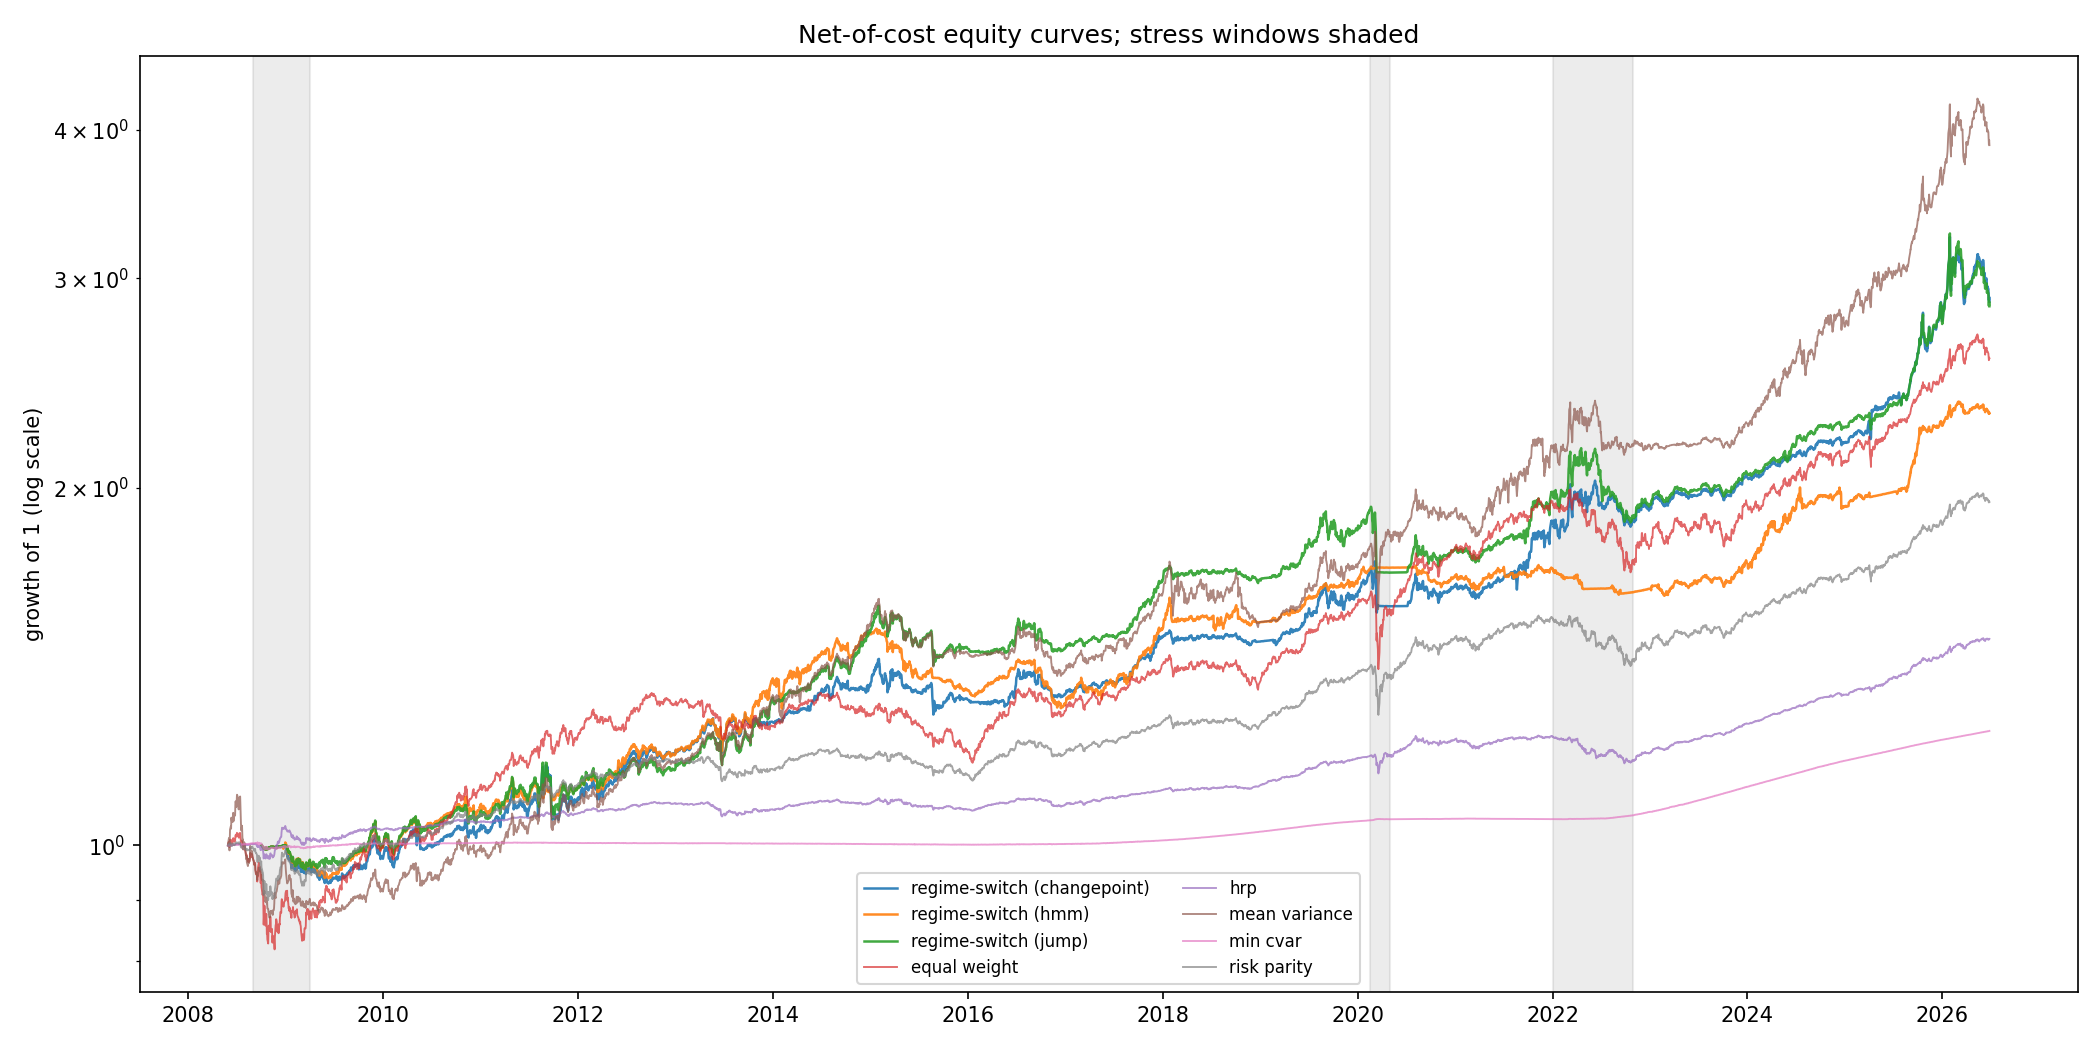
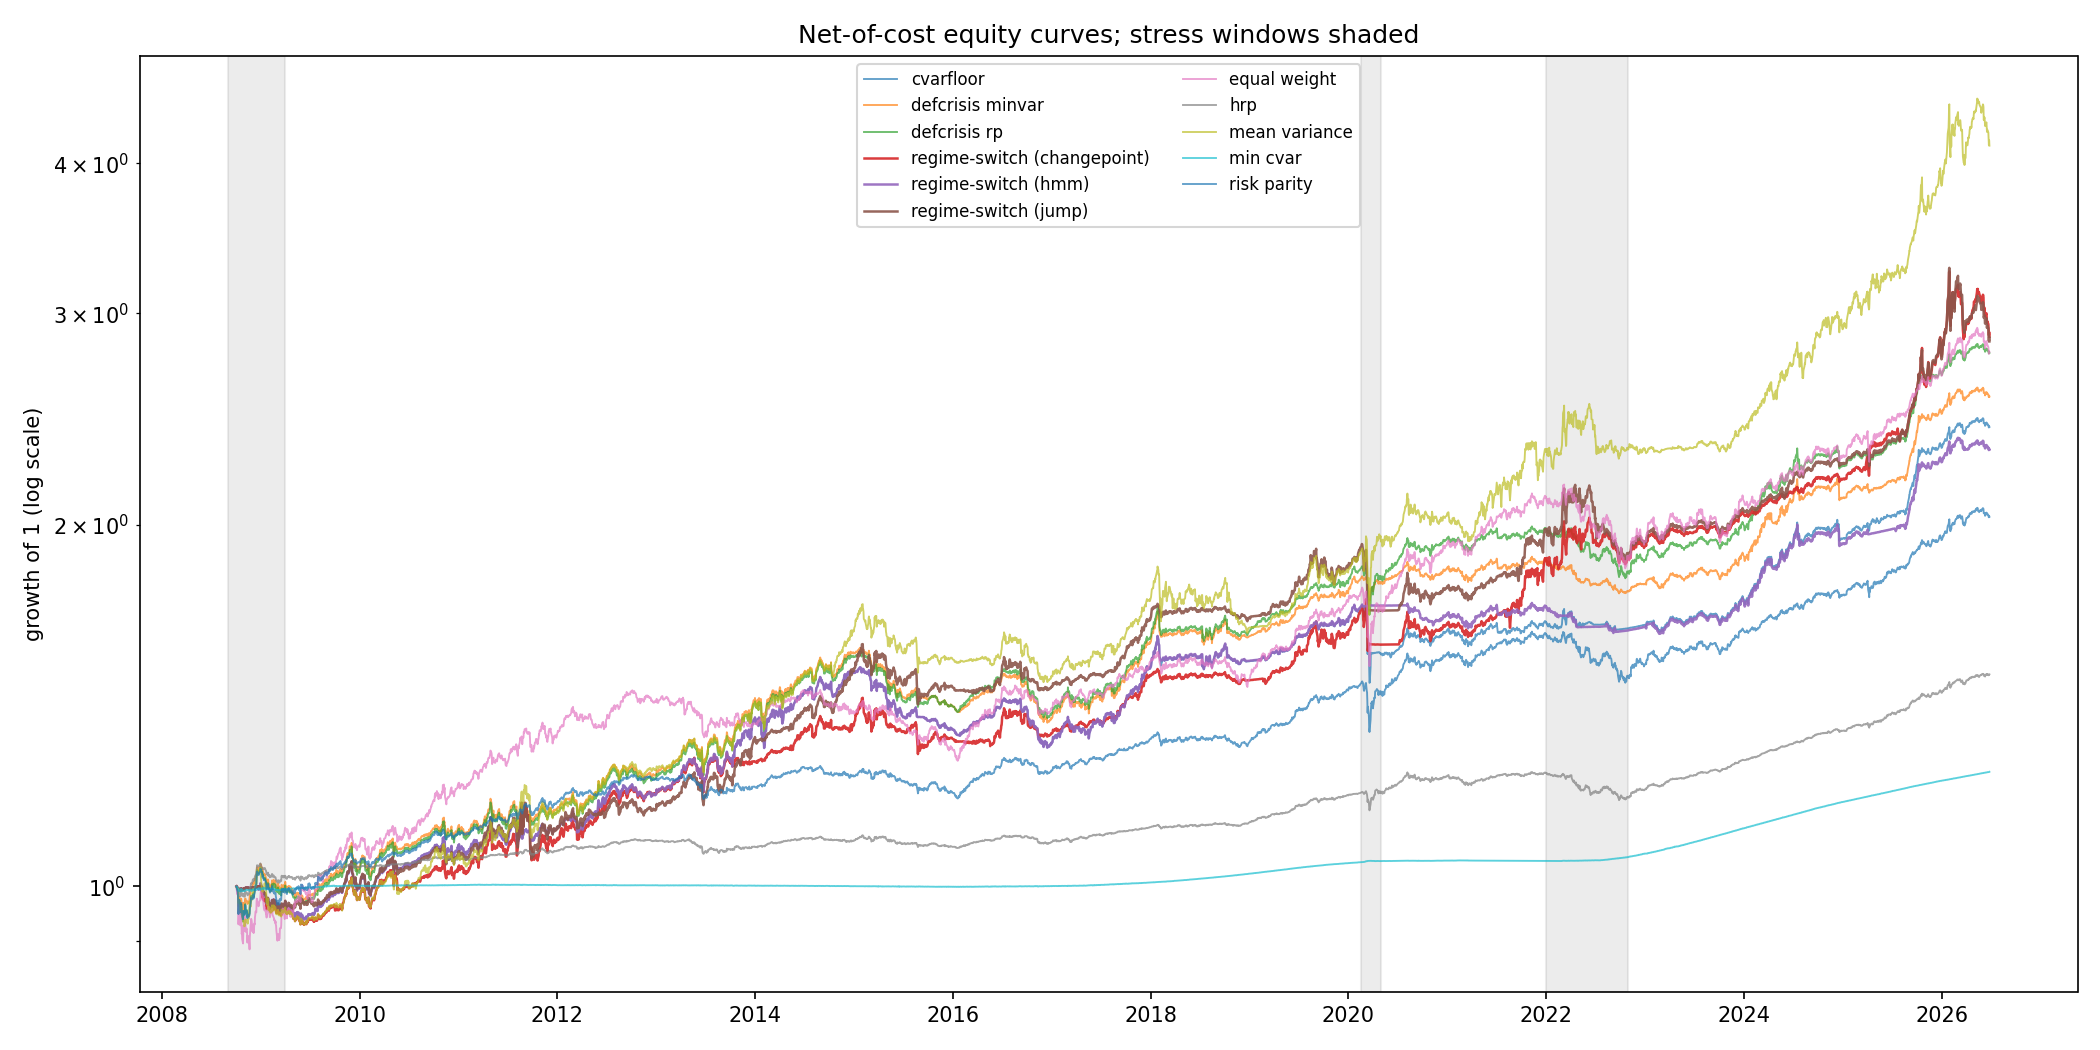
fixed window

diff --git a/scripts/run_backtest.py b/scripts/run_backtest.py
@@ -121,19 +121,22 @@ def main(config, features_path, cost_bps):
     if not weight_files:
         raise SystemExit("No weights_*.parquet found. Run scripts/run_allocation.py first.")
 
-    nets, rows = {}, {}
+    bts, nets = {}, {}
     for p in weight_files:
         name = Path(p).stem.replace("weights_", "")
-        bt = run_backtest(pd.read_parquet(p), returns, cost_bps=cost)
-        nets[name] = bt["net"]
-        rows[name] = summarise(bt, rf)
+        bts[name] = run_backtest(pd.read_parquet(p), returns, cost_bps=cost)
+        nets[name] = bts[name]["net"]
 
-    # common labelled window, for PBO and DSR
+    # Common evaluation window: the first date on which every strategy is live.
+    # Metrics are computed here so no strategy is credited for a period it could
+    # not trade (e.g. before the detector has warmed up).
     common = None
     for net in nets.values():
         idx = net.dropna().index
         common = idx if common is None else common.intersection(idx)
-    trial_sharpes = [sharpe_ratio(nets[k].reindex(common), rf, annualise=False) for k in nets]
+    nets = {k: v.reindex(common) for k, v in nets.items()}
+    rows = {k: summarise(bts[k].reindex(common), rf) for k in bts}
+    trial_sharpes = [sharpe_ratio(nets[k], rf, annualise=False) for k in nets]
 
     lines = [
         f"# Backtest evaluation (cost {cost:.0f} bps)",
@@ -143,15 +146,16 @@ def main(config, features_path, cost_bps):
         "",
         "## Performance (full sample, net of cost)",
         "",
-        "| Strategy | Ann. return | Ann. vol | Sharpe | Max DD | Turnover | Deflated Sharpe |",
-        "|----------|-------------|----------|--------|--------|----------|-----------------|",
+        "| Strategy | Ann. return | Ann. vol | Sharpe | Max DD | Calmar | Turnover | Deflated Sharpe |",
+        "|----------|-------------|----------|--------|--------|--------|----------|-----------------|",
     ]
     for name in nets:
-        s = rows[name]
-        dsr = deflated_sharpe_ratio(nets[name].reindex(common), trial_sharpes, rf)
+        m = rows[name]
+        dsr = deflated_sharpe_ratio(nets[name], trial_sharpes, rf)
+        calmar = m["ann_return"] / m["max_drawdown"] if m["max_drawdown"] > 0 else float("nan")
         lines.append(
-            f"| {pretty(name)} | {s['ann_return']*100:.1f}% | {s['ann_vol']*100:.1f}% | "
-            f"{s['sharpe']:.2f} | {s['max_drawdown']*100:.1f}% | {s['ann_turnover']:.2f} | {dsr:.2f} |"
+            f"| {pretty(name)} | {m['ann_return']*100:.1f}% | {m['ann_vol']*100:.1f}% | "
+            f"{m['sharpe']:.2f} | {m['max_drawdown']*100:.1f}% | {calmar:.2f} | {m['ann_turnover']:.2f} | {dsr:.2f} |"
         )
 
     # stress-window returns

diff --git a/reports/backtest/report.md b/reports/backtest/report.md
@@ -5,33 +5,39 @@
 
 ## Performance (full sample, net of cost)
 
-| Strategy | Ann. return | Ann. vol | Sharpe | Max DD | Turnover | Deflated Sharpe |
-|----------|-------------|----------|--------|--------|----------|-----------------|
-| regime-switch (changepoint) | 6.1% | 7.7% | 0.66 | 12.2% | 3.03 | 0.93 |
-| regime-switch (hmm) | 4.8% | 5.6% | 0.66 | 14.3% | 4.22 | 0.93 |
-| regime-switch (jump) | 6.1% | 8.1% | 0.62 | 13.4% | 2.43 | 0.90 |
-| equal weight | 5.4% | 7.6% | 0.56 | 20.2% | 0.03 | 0.93 |
-| hrp | 2.2% | 1.9% | 0.52 | 5.3% | 0.31 | 0.88 |
-| mean variance | 7.8% | 9.8% | 0.69 | 21.2% | 2.20 | 0.97 |
-| min cvar | 1.2% | 0.5% | -0.06 | 1.4% | 0.05 | 0.18 |
-| risk parity | 3.8% | 4.3% | 0.58 | 10.6% | 0.22 | 0.94 |
+| Strategy | Ann. return | Ann. vol | Sharpe | Max DD | Calmar | Turnover | Deflated Sharpe |
+|----------|-------------|----------|--------|--------|--------|----------|-----------------|
+| cvarfloor | 5.1% | 6.0% | 0.65 | 14.3% | 0.36 | 3.83 | 0.93 |
+| defcrisis minvar | 5.4% | 5.7% | 0.74 | 13.4% | 0.41 | 3.64 | 0.96 |
+| defcrisis rp | 5.9% | 6.2% | 0.77 | 12.0% | 0.50 | 2.80 | 0.97 |
+| regime-switch (changepoint) | 6.1% | 7.7% | 0.66 | 12.2% | 0.50 | 3.03 | 0.93 |
+| regime-switch (hmm) | 4.8% | 5.6% | 0.66 | 14.3% | 0.34 | 4.22 | 0.93 |
+| regime-switch (jump) | 6.1% | 8.1% | 0.62 | 13.4% | 0.45 | 2.43 | 0.90 |
+| equal weight | 6.0% | 7.5% | 0.64 | 14.8% | 0.40 | 0.00 | 0.92 |
+| hrp | 2.3% | 1.9% | 0.58 | 5.3% | 0.44 | 0.28 | 0.88 |
+| mean variance | 8.4% | 9.6% | 0.76 | 13.9% | 0.60 | 2.18 | 0.97 |
+| min cvar | 1.2% | 0.4% | 0.09 | 1.0% | 1.30 | 0.02 | 0.18 |
+| risk parity | 4.1% | 4.3% | 0.67 | 9.3% | 0.44 | 0.19 | 0.94 |
 
 ## Return within stress windows (net of cost)
 
 | Strategy | 2008 GFC | 2020 COVID | 2022 tightening |
 |---|---|---|---|
+| cvarfloor | -3.1% | -8.6% | -1.3% |
+| defcrisis minvar | +0.6% | -0.7% | -5.9% |
+| defcrisis rp | -0.1% | -1.7% | -8.2% |
 | regime-switch (changepoint) | -3.9% | -6.3% | +0.4% |
 | regime-switch (hmm) | -3.1% | +0.3% | -4.5% |
 | regime-switch (jump) | -3.0% | -11.4% | -4.3% |
-| equal weight | -11.0% | -2.7% | -11.3% |
-| hrp | +1.0% | +0.1% | -4.6% |
-| mean variance | -8.1% | +2.0% | +0.5% |
-| min cvar | -0.7% | +0.2% | +0.7% |
-| risk parity | -4.6% | -1.7% | -8.1% |
+| equal weight | -5.6% | -2.7% | -11.3% |
+| hrp | +1.9% | +0.1% | -4.6% |
+| mean variance | -4.2% | +2.0% | +0.5% |
+| min cvar | -0.6% | +0.2% | +0.7% |
+| risk parity | -0.9% | -1.7% | -8.1% |
 
 ## Significance / overfitting
 
-- Strategies compared: 8
+- Strategies compared: 11
 - Probability of backtest overfitting (CSCV, 16 blocks): 0.04
 - Deflated Sharpe ratio is the last column of the performance table (probability the Sharpe beats the expected best of the trials).
 